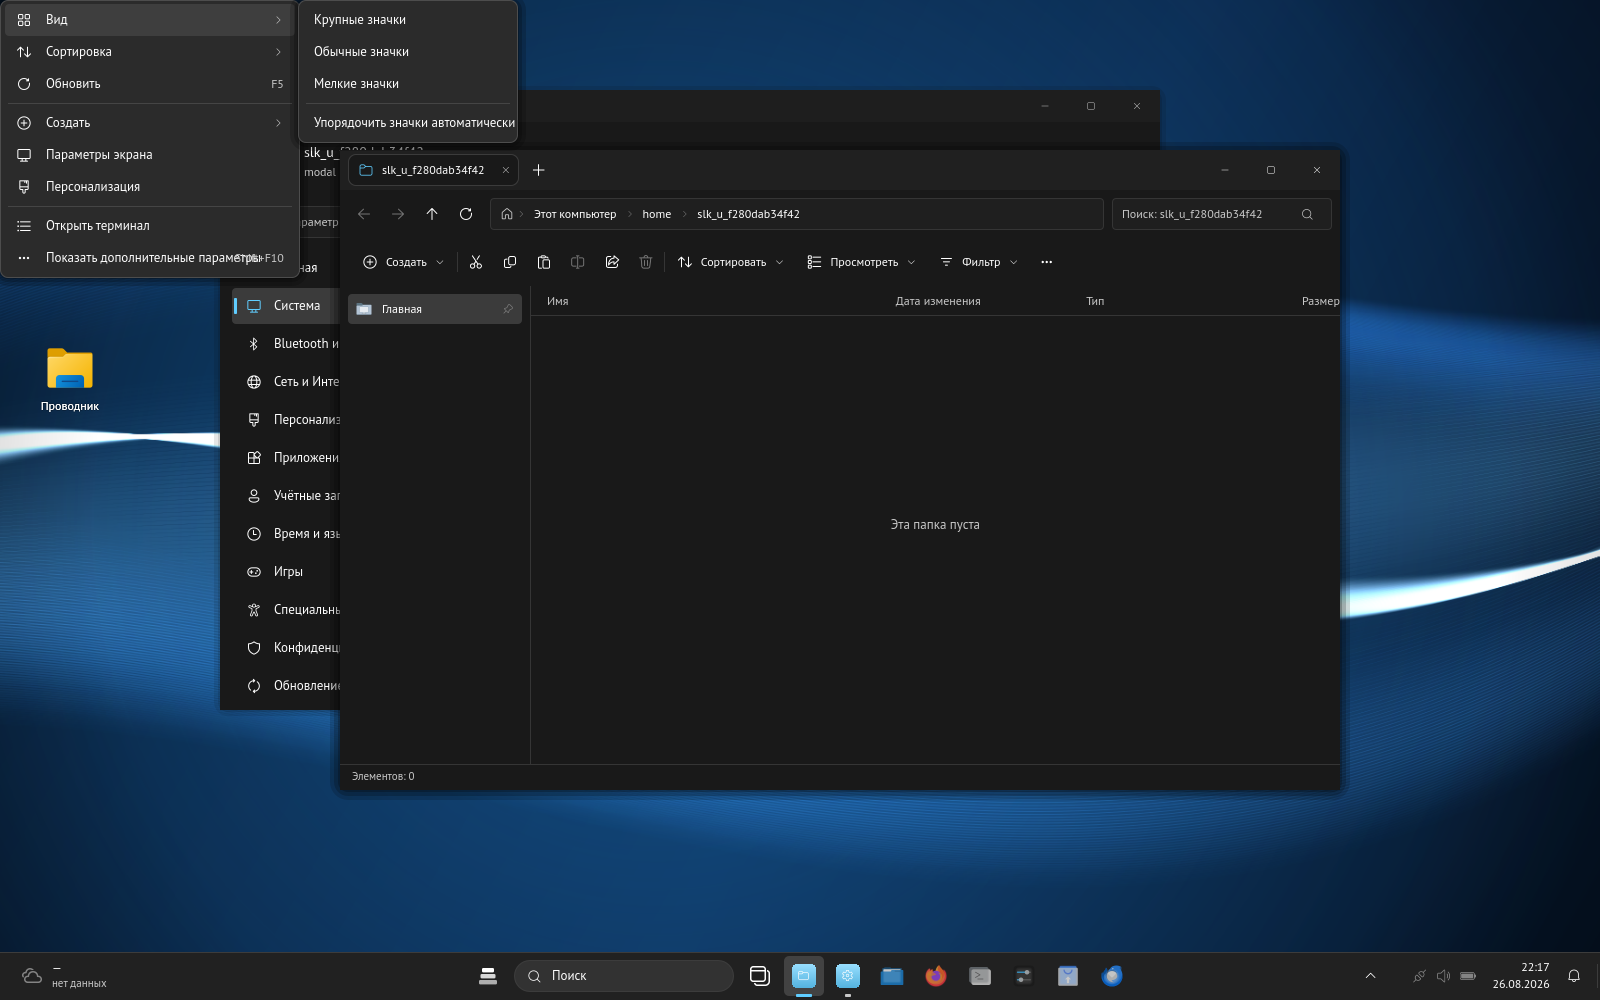
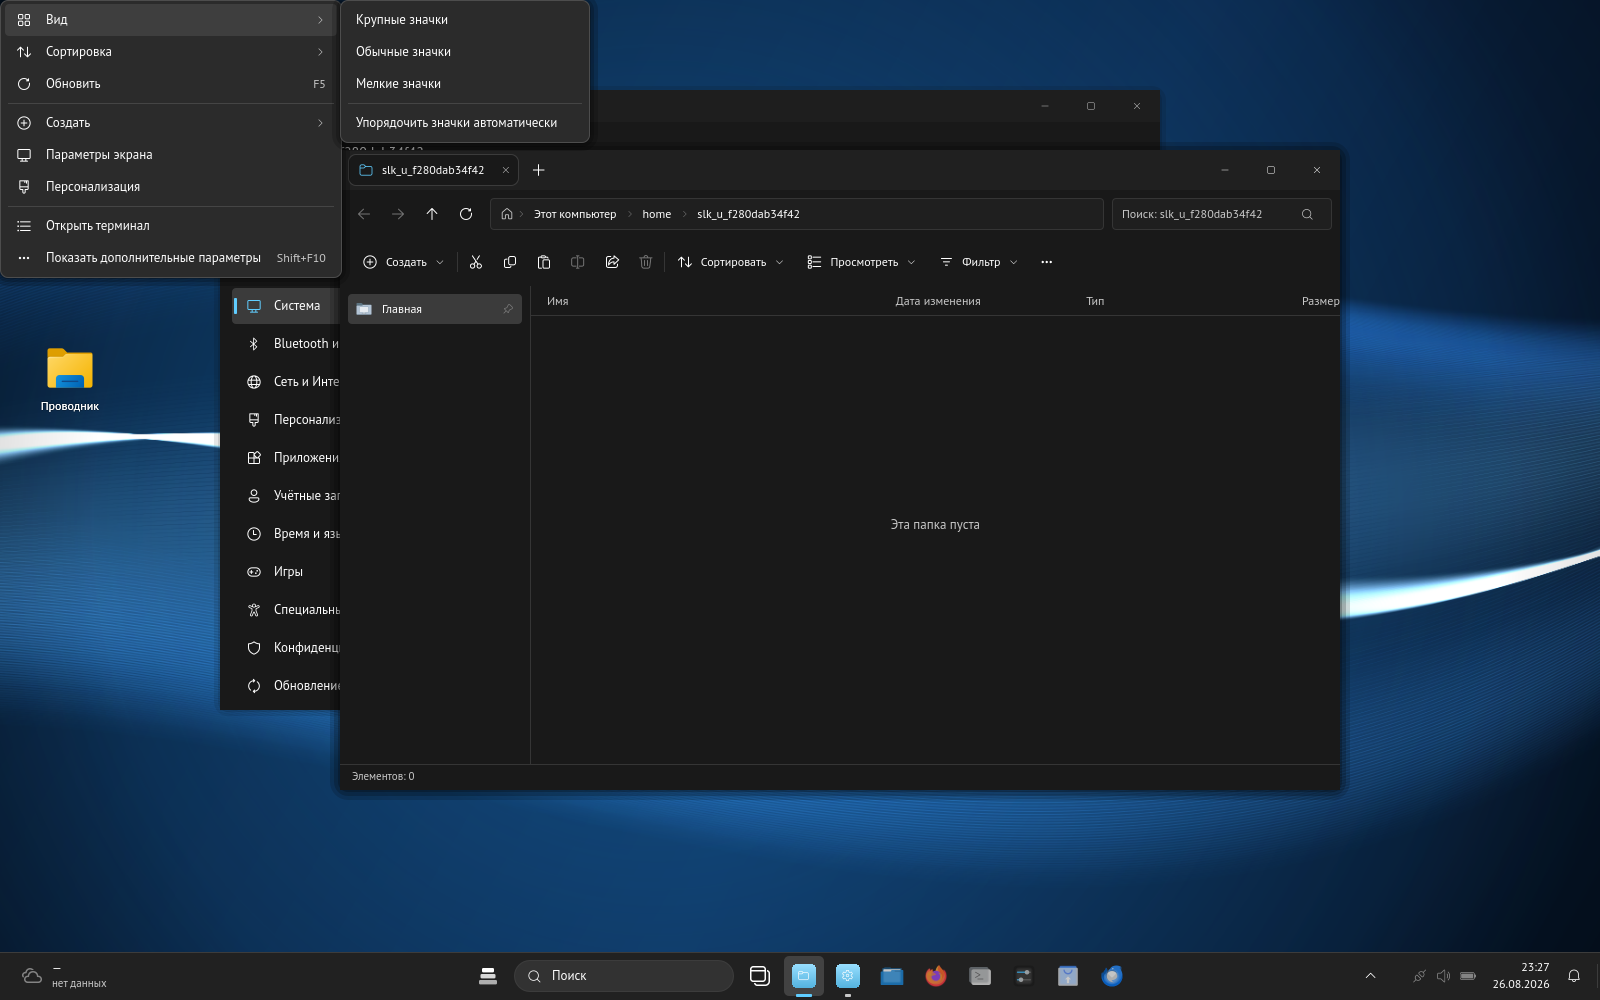
refs: a Windows 11 reference library anyone can verify, and menus that fit their text

Changed region(s): [[0.1875, 0.0, 0.2812, 0.124], [0.3125, 0.0, 0.375, 0.155], [0.1562, 0.124, 0.2188, 0.279]]

diff --git a/WORKLOG.md b/WORKLOG.md
@@ -814,3 +814,43 @@ content (`TextMetrics`, the same row arithmetic the delegate uses) with 300 px a
 reference records `min_width` instead of `width`, parity gained a `min` comparator, and
 `test_context_menu_fit.py` renders the menu and demands a real background gutter before the
 shortcut column — a pixel gate, not a re-run of the layout maths.
+
+### Run #35: a reference library anyone can check, and a menu that stopped talking over itself
+
+Every geometry token in `win11-reference.json` was measured — but from screenshots that can never
+be published, so nobody outside this machine could verify one of them. This run built the missing
+half: `assets/refs/win11/library.json`, 36 authentic Windows 11 screenshots **published by
+Microsoft** (Microsoft Learn, Microsoft Support, the Windows Insider and Windows Experience blogs,
+the June 2021 press kit), covering all fifteen states we implement — desktop, taskbar, Start,
+search, Settings, Explorer, context menus, Quick Settings, notifications, window decorations,
+dark and light mode, dialogs, multiple windows and snap layouts.
+
+The images stay out of the repository (Microsoft's copyright). `tools/visual/fetch_references.py`
+downloads them into a gitignored cache and verifies the recorded sha256, so a reference that
+changes upstream fails loudly instead of silently rewriting a measurement.
+
+Two of them prove their own display scale, which is what makes a screenshot measurable at all:
+`quick-access-update2.png` puts its caption glyphs 45.5 px apart against a 46 px caption button, so
+it is a 100 % capture; the Quick Settings flyout is 536 px wide against a 360 px panel, so it is at
+150 %. `tools/visual/measure_library.py` re-derives eight numbers from those two and all eight
+agree with the committed reference — caption button width, context menu item height, and the Quick
+Settings panel width, padding, tile width, tile height and gap that had only ever been measured
+from private captures.
+
+The comparison against the seven rendered states then found what geometry parity structurally
+cannot see: the desktop context menu drew "Показать дополнительные параметры" straight through
+"Shift+F10". `ContextMenu.qml` pinned every menu at 300 px whatever the language, while Windows 11
+sizes a menu to its widest row. The menu now measures its rows with `TextMetrics` and treats 300 as
+a floor (`context_menu.min_width`, checked with a `min` comparator instead of equality — the file
+menu in the public 100 % capture is narrower than the desktop menu, so equality was never right).
+The gate is pixel-based, not a second copy of the layout arithmetic:
+`tests/test_context_menu_fit.py` renders the menu and fails when the gutter before a row's trailing
+text drops below 8 px. Pinning the width back to 300 makes it fail, which is the only proof that a
+regression test is worth anything.
+
+Two measurements the library raises and this run deliberately did **not** act on: Explorer's
+navigation pane measures 240 px at 100 % against our 190 token, and the details-view row pitch
+measures 30 against our 32. The pane is user-resizable, so the capture may just show a wider one —
+the maintainer's call, recorded in `docs/WIN11_REFERENCE_LIBRARY.md`.
+
+Tests: 182. Parity: 34/34.

diff --git a/docs/VISUAL_PARITY_PROCESS.md b/docs/VISUAL_PARITY_PROCESS.md
@@ -29,6 +29,12 @@ Evidence lands in `docs/visual/current/`: the seven frames, one crop per compone
 | --- | --- | --- |
 | Start, taskbar rhythm | `assets/refs/win11_start_reference.png`, 1920x1280 at 125 % | yes |
 | Desktop taskbar, Explorer, Settings, notification centre, context menu | maintainer's own screenshots, 2026-08-26, 125 % | no — they show a personal desktop, so only the measurements were kept |
+| Every state, published by Microsoft | `assets/refs/win11/library.json` — 36 screenshots from Microsoft Learn, Microsoft Support, the Windows blogs and the Windows 11 press kit | no — Microsoft's copyright; `tools/visual/fetch_references.py` re-downloads and checksums them |
+
+Since run #35 the private captures are no longer the only word: `tools/visual/measure_library.py`
+re-derives caption button width, context menu item height and the whole Quick Settings tile grid
+from two public captures whose display scale can be proven (100 % and 150 %), and all eight
+measurements agree with the committed reference. See `docs/WIN11_REFERENCE_LIBRARY.md`.
 
 Every value in `win11-reference.json` is a measurement. Where a capture could not settle a value it
 is absent rather than guessed.
